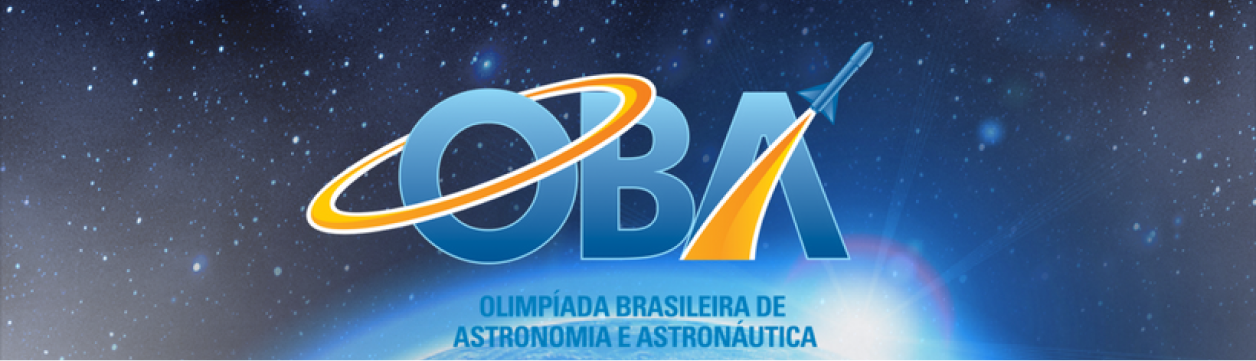
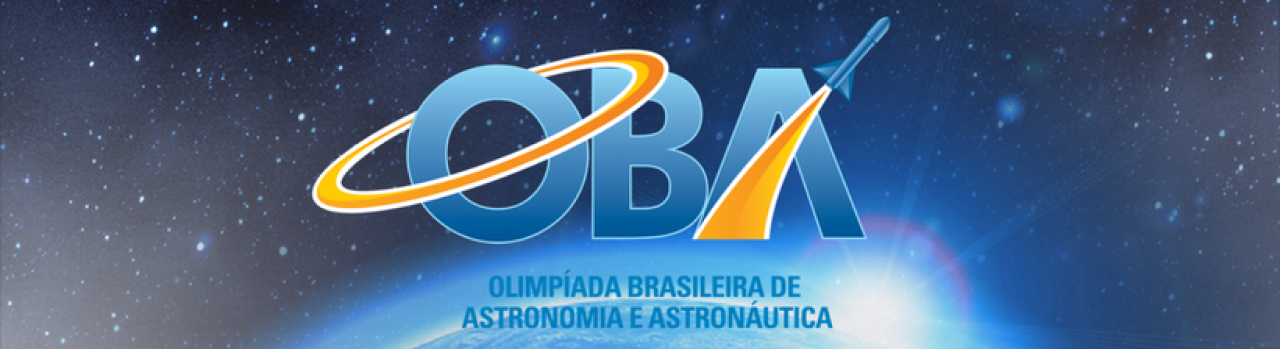
adição capa oba e adição redes sociais

diff --git a/noticia_sergio.html b/noticia_sergio.html
@@ -80,6 +80,14 @@
                 </p>
             </div>
         </section>
+        <section id="social-media">
+            <p> Conheça melhor o Influencer</p>
+            <div class="social-media-container">
+                <img src="images/entypo-social_facebook-with-circle.png" alt="facebook">
+                <img src="images/entypo-social_instagram-with-circle.png" alt="instagram">
+                <img src="images/entypo-social_youtube-with-circle.png" alt="youtube">
+            </div>
+        </section>
 
     </main>
 

diff --git a/styles/noticia_sergio.css b/styles/noticia_sergio.css
@@ -268,6 +268,15 @@ p {
     z-index: 2;
 }
 
+#social-media{
+    display: flex;
+    flex-direction: column;
+}
+
+.social-media-container>img {
+    margin: 0px 5px;
+}
+
 @media only screen and (min-width:100px) and (max-width: 480px) {
 
     body{
